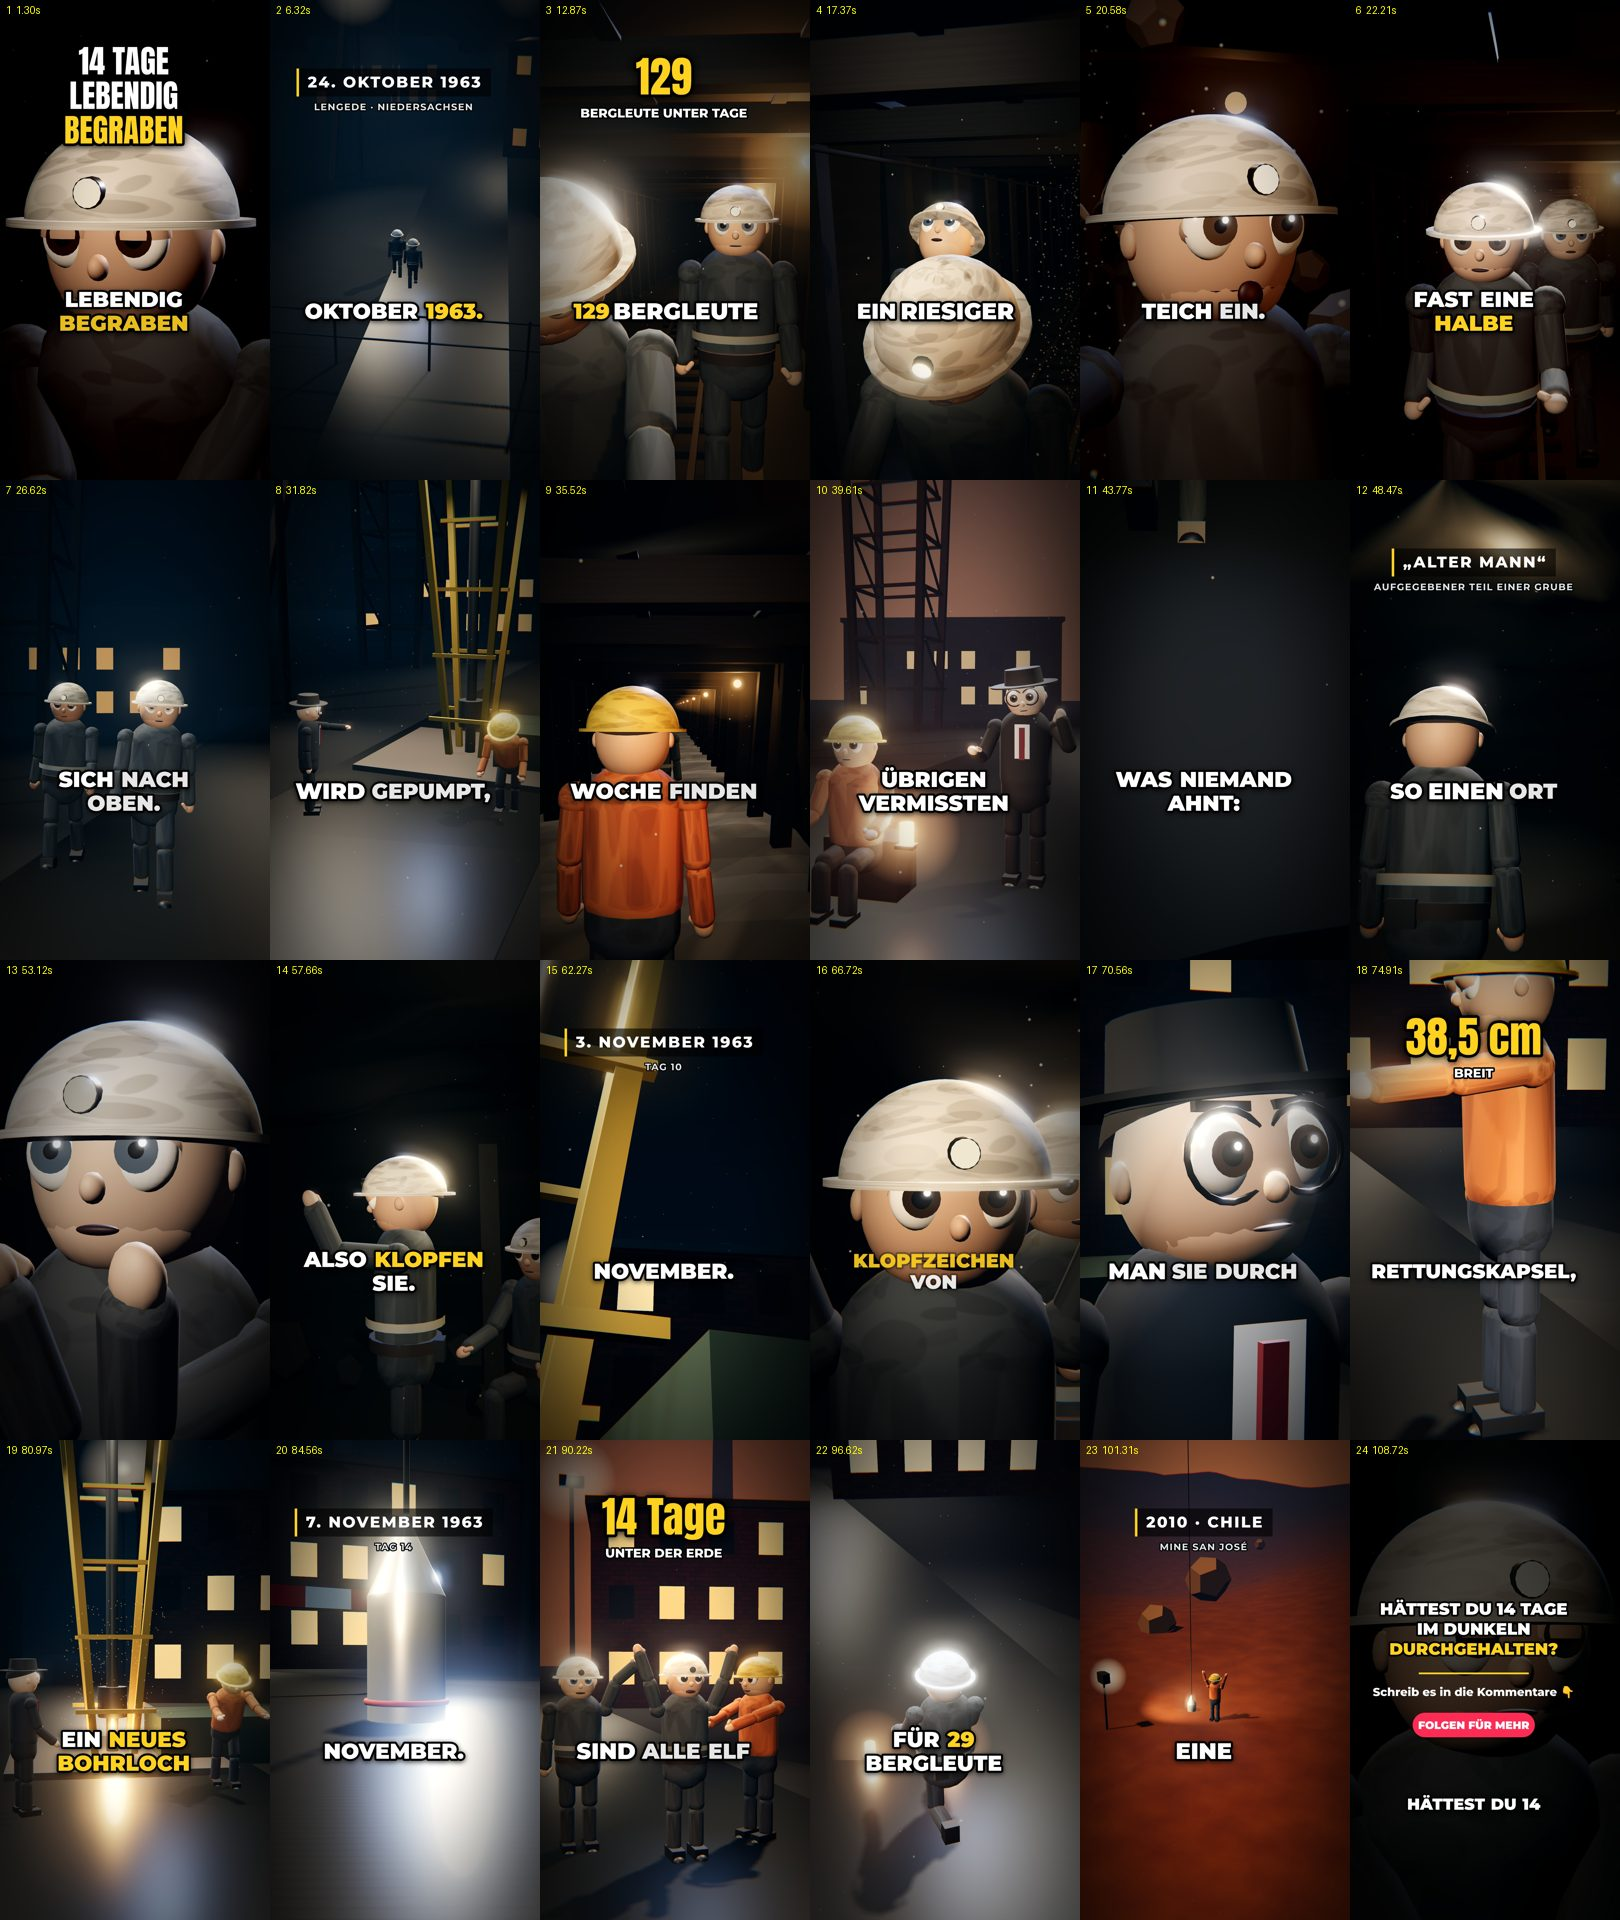
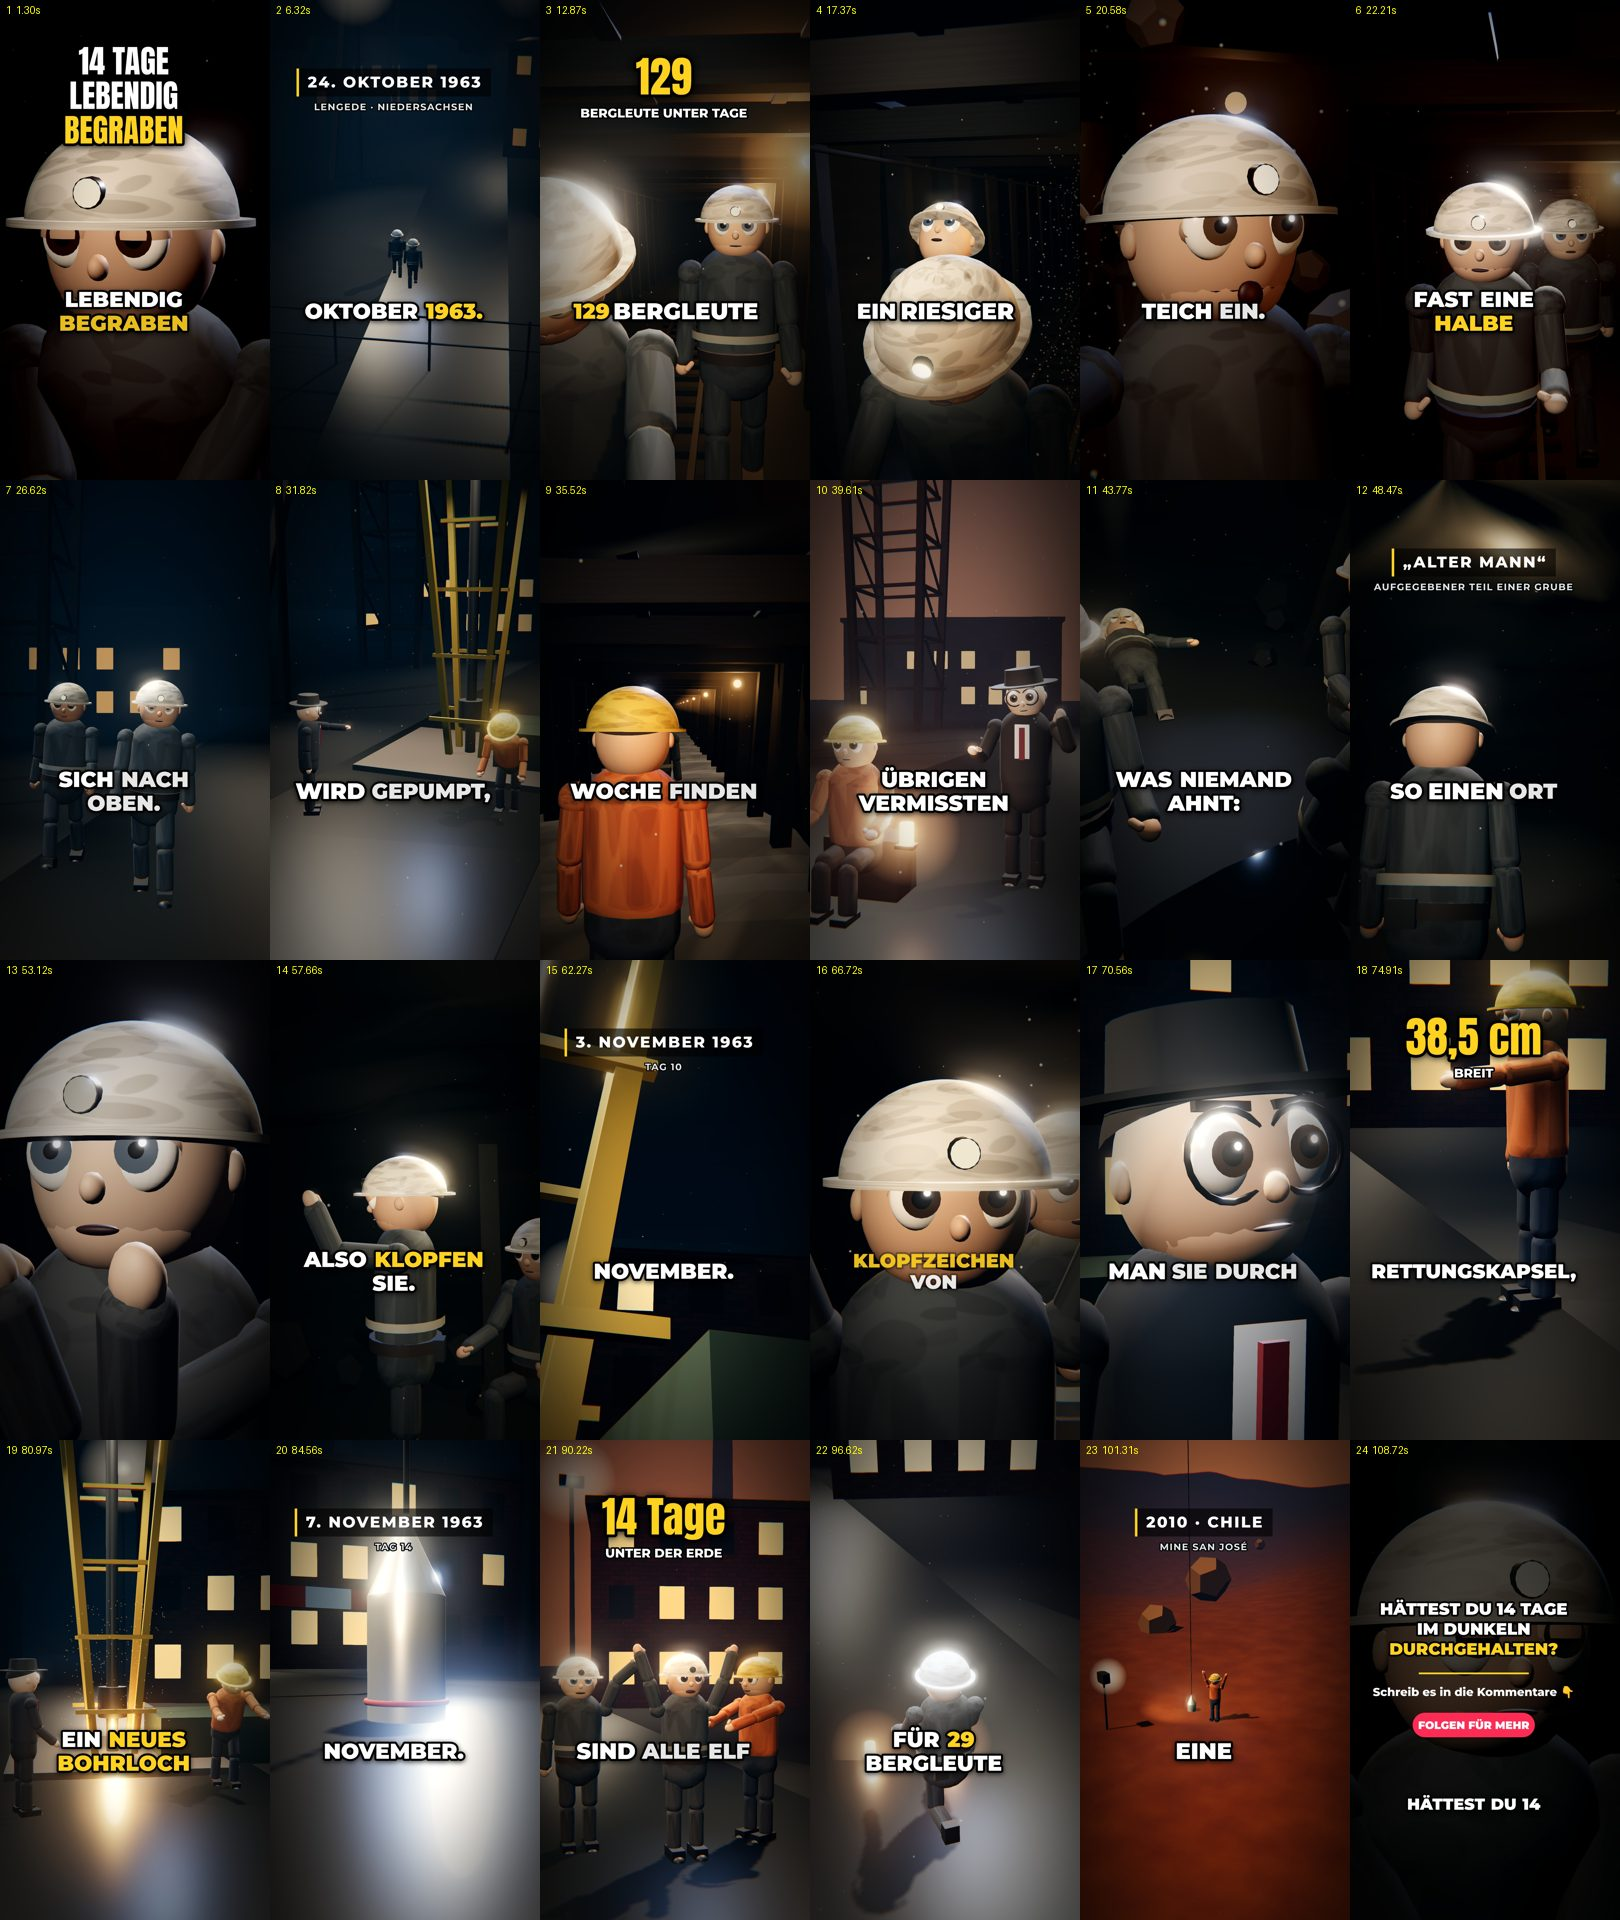
Renderer: FXAA statt MSAA (≈40 % schneller), Objekt-Fokus ohne Seil, Vogelperspektive in Innenräumen, Lichtfaktor-Fix; Lengede-Plan aktualisiert
Claude-Session: https://claude.ai/code/session_01B61puNfeH3SwRta266AVGY

diff --git a/studio/renderer/engine/core.js b/studio/renderer/engine/core.js
@@ -6,6 +6,7 @@ import { RenderPass } from 'three/addons/postprocessing/RenderPass.js';
 import { UnrealBloomPass } from 'three/addons/postprocessing/UnrealBloomPass.js';
 import { OutputPass } from 'three/addons/postprocessing/OutputPass.js';
 import { ShaderPass } from 'three/addons/postprocessing/ShaderPass.js';
+import { FXAAShader } from 'three/addons/shaders/FXAAShader.js';
 
 export const W = 1080, H = 1920, FPS = 30;
 // Sicherer Bereich für TikTok: oben Suchleiste, unten Beschreibung/Musik, rechts Buttons
@@ -76,16 +77,18 @@ export function createEngine() {
   const renderer = new THREE.WebGLRenderer({ canvas: glCanvas, antialias: false, preserveDrawingBuffer: true, powerPreference: 'high-performance' });
   renderer.setPixelRatio(1); renderer.setSize(W, H, false);
   renderer.toneMapping = THREE.ACESFilmicToneMapping; renderer.toneMappingExposure = 1.0;
-  renderer.shadowMap.enabled = true; renderer.shadowMap.type = THREE.PCFSoftShadowMap;
+  renderer.shadowMap.enabled = true; renderer.shadowMap.type = THREE.PCFShadowMap;
   renderer.outputColorSpace = THREE.SRGBColorSpace;
 
   const camera = new THREE.PerspectiveCamera(40, W / H, 0.05, 900);
-  const rt = new THREE.WebGLRenderTarget(W, H, { type: THREE.HalfFloatType, samples: 4 });
+  const rt = new THREE.WebGLRenderTarget(W, H, { type: THREE.HalfFloatType, samples: (window.STUDIO_MSAA ?? 0) });
   const composer = new EffectComposer(renderer, rt);
   const renderPass = new RenderPass(new THREE.Scene(), camera); composer.addPass(renderPass);
   const bloom = new UnrealBloomPass(new THREE.Vector2(W / 2, H / 2), 0.5, 0.6, 0.86); composer.addPass(bloom);
   composer.addPass(new OutputPass());
   const grade = new ShaderPass(GradeShader); composer.addPass(grade);
+  // Kantenglättung: FXAA (günstig) statt Multisampling – auf CPU-Rendering ≈ 40 % schneller
+  if (!(window.STUDIO_MSAA > 0)) { const fxaa = new ShaderPass(FXAAShader); fxaa.uniforms.resolution.value.set(1 / W, 1 / H); composer.addPass(fxaa); }
 
   const out = document.createElement('canvas'); out.width = W; out.height = H; document.body.appendChild(out);
   const ctx = out.getContext('2d');

diff --git a/studio/renderer/engine/regie.js b/studio/renderer/engine/regie.js
@@ -87,7 +87,7 @@ function updateFigures(S, t, l, d, cam) {
 function figHead(fig) { fig.F.root.updateMatrixWorld(true); return fig.F.head.getWorldPosition(v3(0, 0, 0)); }
 function focusOf(S, shot) {
   const z = shot.ziel;
-  if (z && typeof z === 'string' && z.startsWith('prop:')) { const p = S.props.find((x) => x.cfg.name === z.slice(5)); if (p) { p.o.updateMatrixWorld(true); const b = new THREE.Box3().setFromObject(p.o); const c = b.getCenter(v3(0, 0, 0)); if (b.max.y - b.min.y > 6) c.y = b.min.y + 1.5; return c; } }
+  if (z && typeof z === 'string' && z.startsWith('prop:')) { const p = S.props.find((x) => x.cfg.name === z.slice(5)); if (p) { p.o.updateMatrixWorld(true); const b = new THREE.Box3().setFromObject(p.o); const c = p.o.getWorldPosition(v3(0, 0, 0)); c.y = Math.min(b.min.y + 1.2, (b.min.y + b.max.y) / 2); return c; } }
   if (Array.isArray(z)) return v3(z[0], z[1], z[2]);
   if (z && S.set.marks[z]) return markPos(S.set, z).add(v3(0, 1.2, 0));
   const figs = z ? S.figs.filter((f) => f.cfg.id === z) : S.figs;
@@ -203,7 +203,7 @@ export function renderFrame(t, type = 'image/jpeg') {
   return E.out.toDataURL(type, 0.93);
 }
 
-export function debugInfo(t) { renderFrame(t); return { cam: E.camera.position.toArray(), fov: E.camera.fov, figs: scenes[sceneAt(t)].figs.map((f) => f.F.root.position.toArray()), info: E.renderer.info.render }; }
+export function debugInfo(t) { renderFrame(t); const S = scenes[sceneAt(t)]; return { props: S.props.map((p) => [p.cfg.name, p.o.position.toArray(), new THREE.Box3().setFromObject(p.o).min.toArray(), new THREE.Box3().setFromObject(p.o).max.toArray()]), tgt: (() => { const sh = (S.sc.shots || []).find((x) => t >= x.a && t < x.b); return [sh, focusOf(S, sh).toArray()]; })(), cam: E.camera.position.toArray(), fov: E.camera.fov, figs: scenes[sceneAt(t)].figs.map((f) => f.F.root.position.toArray()), info: E.renderer.info.render }; }
 
 export function renderCover() {
   const t = plan.cover?.t ?? 1.0; renderFrame(t, 'image/png');

diff --git a/studio/renderer/engine/requisiten.js b/studio/renderer/engine/requisiten.js
@@ -74,7 +74,7 @@ export const REQUISITEN = {
   telefon() { const g = new THREE.Group(); g.add(box(0.22, 0.08, 0.2, M(0x111111), 0, 0.04, 0)); const h = box(0.22, 0.05, 0.05, M(0x111111), 0, 0.11, 0); g.add(h); return g; },
   monitor() { const g = new THREE.Group(); g.add(box(0.7, 0.45, 0.05, M(0x111111), 0, 0.5, 0)); const s = new THREE.Mesh(new THREE.PlaneGeometry(0.64, 0.39), new THREE.MeshStandardMaterial({ color: 0x050505, emissive: 0x4a90c0, emissiveIntensity: 1.2 })); s.position.set(0, 0.5, 0.03); g.add(s); g.add(box(0.06, 0.25, 0.06, M(0x222222), 0, 0.15, 0)); return g; },
   scheinwerfer() { const g = new THREE.Group(); const pole = cyl(0.04, 0.05, 2.2, M(0x333333), 8); pole.position.y = 1.1; g.add(pole); const h = box(0.5, 0.4, 0.3, M(0x222222), 0, 2.25, 0); g.add(h);
-    const gl = glowSprite(0xfff0d8, 1.5); gl.position.set(0, 2.25, 0.2); g.add(gl); const sp = new THREE.SpotLight(0xfff0d8, 80, 20, 0.6, 0.5, 1.5); sp.position.set(0, 2.25, 0.2); sp.target.position.set(0, 0, 6); g.add(sp, sp.target);
+    const gl = glowSprite(0xfff0d8, 1.5); gl.position.set(0, 2.25, 0.2); g.add(gl); const sp = new THREE.SpotLight(0xfff0d8, 40, 20, 0.6, 0.5, 1.5); sp.position.set(0, 2.25, 0.2); sp.target.position.set(0, 0, 6); g.add(sp, sp.target);
     const cone = makeBeamCone(7, 2.2, 0xfff0d8); cone.position.set(0, 2.25, 0.2); cone.rotation.x = -Math.PI / 2 + 0.33; cone.material.uniforms.uInt.value = 0.2; g.add(cone); return g; },
 };
 

diff --git a/studio/renderer/player.html b/studio/renderer/player.html
@@ -5,7 +5,7 @@
 </head><body>
 <script type="module">
   const plan = new URLSearchParams(location.search).get('plan');
-  const mod = await import('/renderer/engine/regie.js');
+  window.STUDIO_MSAA = +(new URLSearchParams(location.search).get('msaa') ?? 0); const mod = await import('/renderer/engine/regie.js');
   try { await mod.init(plan); window.renderFrame = mod.renderFrame; window.renderCover = mod.renderCover; window.debugInfo = mod.debugInfo; window.ready = true; }
   catch (e) { window.initError = String(e && e.stack || e); console.error(e); }
 </script>
